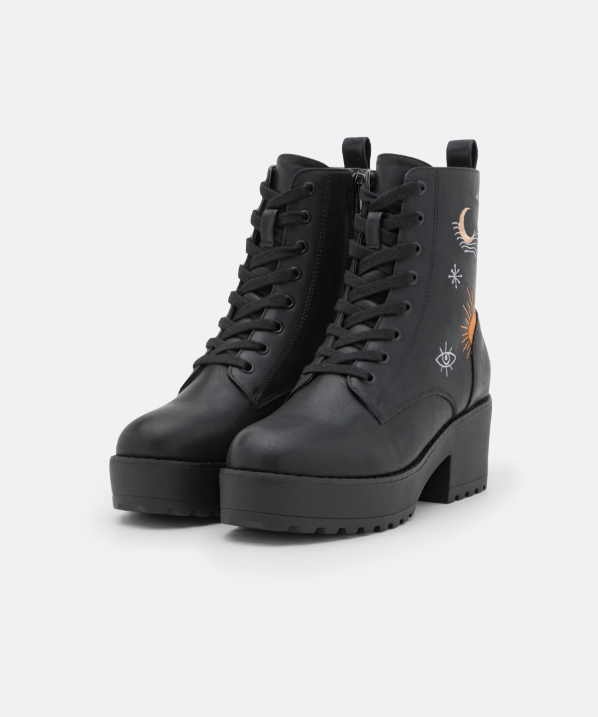
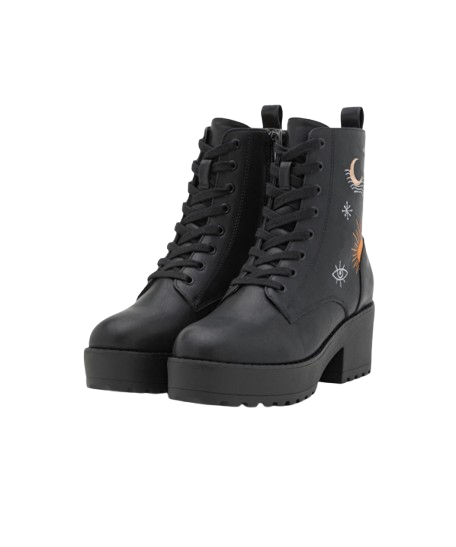
fixed images and background of imgs

diff --git a/css/product.css b/css/product.css
@@ -112,7 +112,7 @@
   height: 300px;
   object-fit: contain;
   border-radius: 5px;
-  background: #f1f1f1;
+  background: white;
 }
 
 .product-price {
